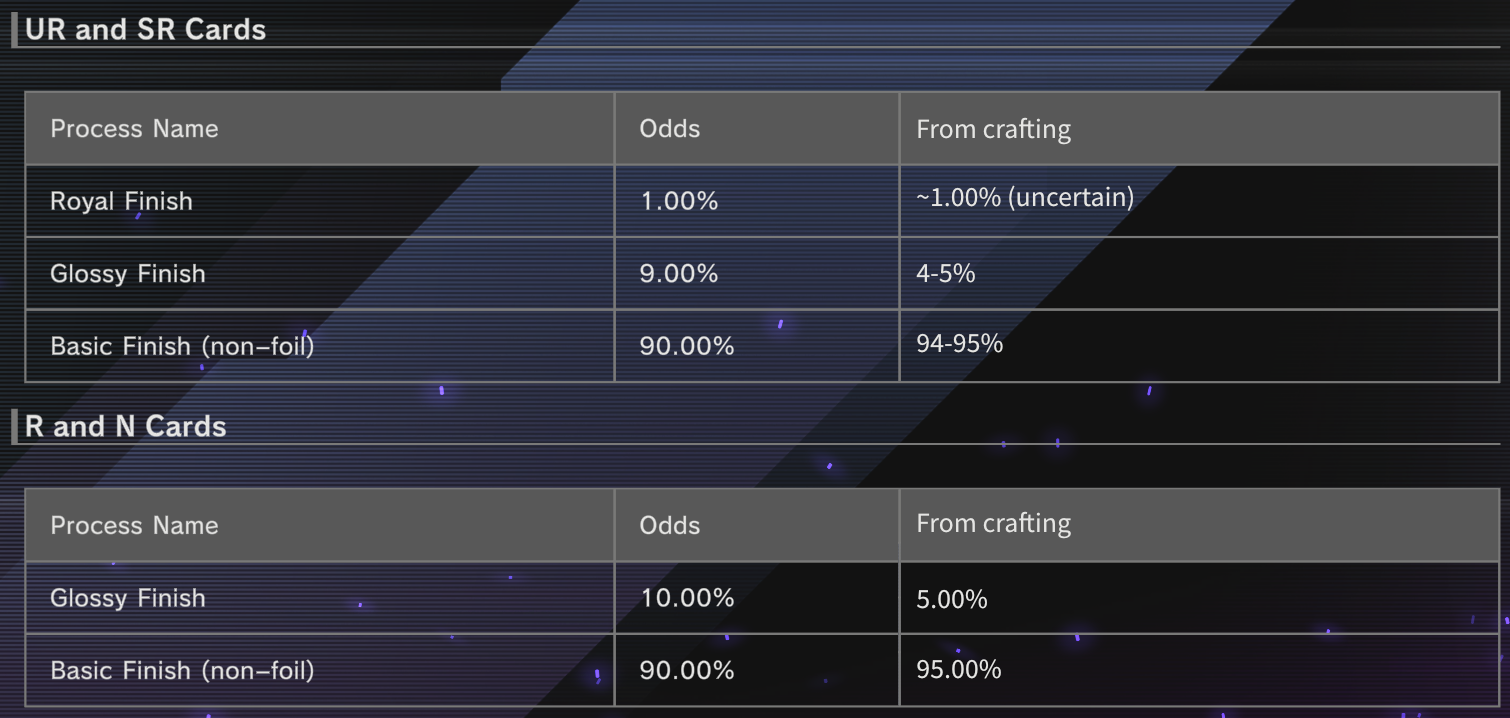
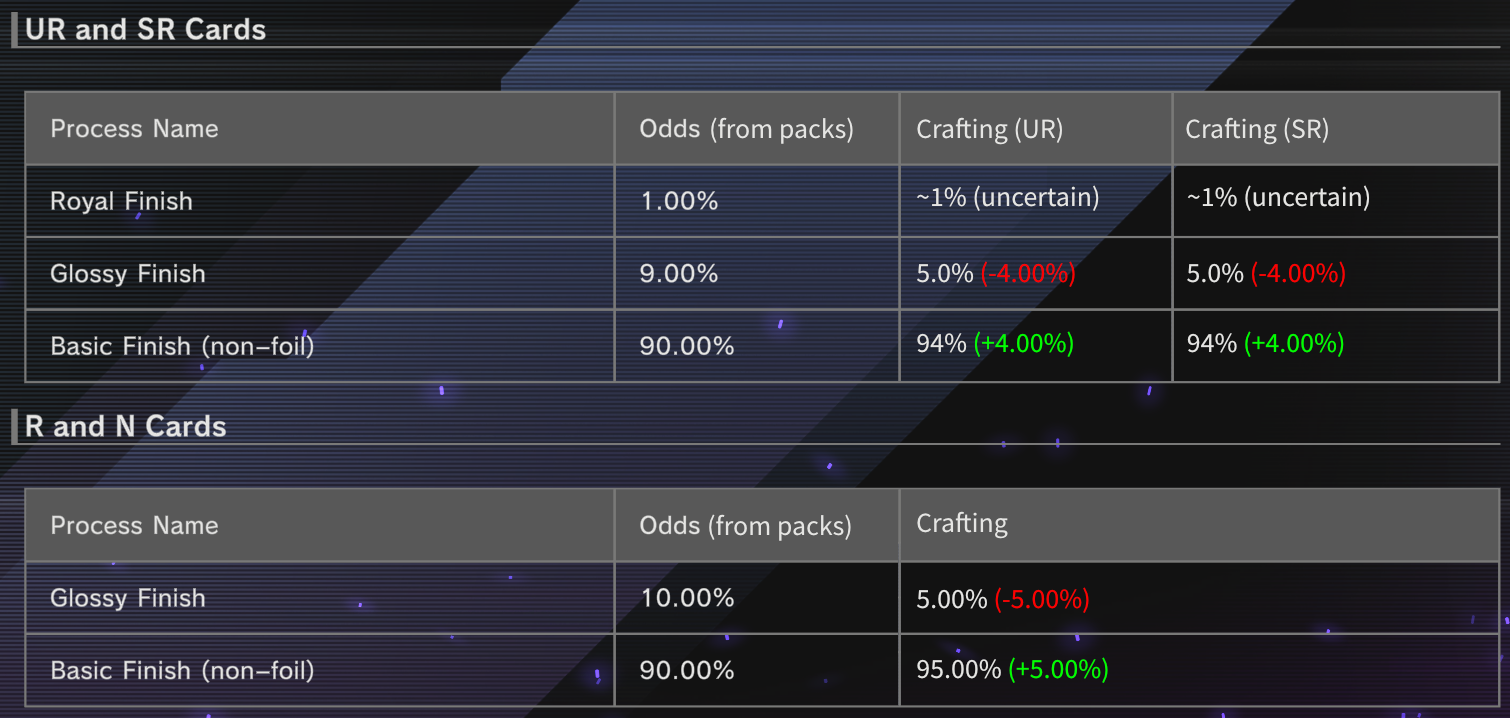
glossy: major data update

diff --git a/pages/glossy.html b/pages/glossy.html
@@ -40,7 +40,7 @@ gtag('config', 'G-805N997DPC');
 <header class="major">
 <h1>Master Duel crafting is rigged*</h1>
 </header>
-<center><em>By BigStupidJellyfish | 2024-January-17 | Last updated 2024-February-17</em></center>
+<center><em>By BigStupidJellyfish | 2024-January-17 | Last updated 2024-September-27</em></center>
 
 <span class="anchor" id="numbers"></span>
 <h2>The N/R Numbers<sup><small><a href="#numbers">&#35;</a></small></sup></h2>
@@ -55,6 +55,7 @@ gtag('config', 'G-805N997DPC');
 	There would likely be legal trouble otherwise, and I don't particularly care to crawl through masses of pack opening videos.
 	But what about crafting?
 	As far as I can tell, rates there are not disclosed anywhere in-game.
+	Here's what Konami has to say about crafting:
 </p>
 <div class="figure">
 	<img src="images/glossy/craftmenu.png" width="100%"/>
@@ -79,21 +80,21 @@ gtag('config', 'G-805N997DPC');
 			<td>R</td>
 			<td>0/0/-</td>
 			<td>33/3/-</td>
-			<td>3/33</td>
+			<td>3/36</td>
 		</tr>
 		<tr>
 			<td>Shif, Fairy of the Ghoti</td>
 			<td>R</td>
 			<td>3/0/-</td>
 			<td>97/2/-</td>
-			<td>2/94</td>
+			<td>2/96</td>
 		</tr>
 		<tr>
 			<td>Gold Pride - Roller Baller</td>
 			<td>N</td>
 			<td>2/0/-</td>
 			<td>146/3/-</td>
-			<td>3/144</td>
+			<td>3/147</td>
 		</tr>
 	</table>
 </center>
@@ -101,8 +102,9 @@ gtag('config', 'G-805N997DPC');
 	... and so on.
 </p>
 <p>
-	In total, 1196 craft attempts resulted in 53 glossy N/R cards - a 4.4% rate.
-	The true glossy rate is almost surely (with 99% confidence) at least 3.1% but no more than 6.3%.
+	In total, 3972 craft attempts resulted in 204 glossy N/R cards - a 5.1% rate.
+	The true glossy rate is almost surely (with 99% confidence) at least 4.3% but no more than 6.1%.
+	5.00% is a reasonable guess for the true rate.
 	Expect ~20 crafts per glossy, or ~60 for a playset - ~1200 N/R dust after refunds.
 	<!-- It's possible for SR/UR cards to have odds more in line with the stated rates from packs, but I would be very suspicious based on these results. -->
 </p>
@@ -114,11 +116,14 @@ gtag('config', 'G-805N997DPC');
 </p> -->
 <h2>The SR/UR Numbers<sup><small><a href="#numbers">&#35;</a></small></sup></h2>
 <p>
-	It takes an incredible amount of data to get a solid read on royal rates (as they're expected to be in the 1% range, I'd feel more comfortable with 2-5000 samples), but glossy SR/URs are a bit more doable.
-	From my data so far, 968 SR/UR crafts resulted in 49 glossy cards (5.1%), and 9 royals (0.9%).
-	We can't say much about the royal rate yet - it may be anywhere around 0.4-2.2%.
-	But this is enough to conclude the SR/UR glossy rate does <em>not</em> match the stated 9% odds from packs (p&lt;0.0001).
-	With 99% confidence, the true SR/UR glossy rate is between 3.5% and 7.3%.
+	It takes an incredible amount of data to get a solid read on royal rates (as they're expected to be in the 1% range, I'd feel more comfortable with 5000+ samples), but glossy SR/URs are a bit more doable.
+	From my data so far, 2767 SR/UR crafts resulted in 136 glossy cards (4.9%), and 25 royals (0.9%).
+	We can't say much about the royal rate yet - it may be anywhere around 0.5-1.5%.
+	1.00% is a somewhat reasonable guess, but I'm not sure I'd trust Konami to be that "fair."
+	But this is more than enough to conclude the SR/UR glossy rate does <em>not</em> match the stated 9% odds from packs (p&lt;0.00001).
+	With 99% confidence, the true SR/UR glossy rate is between 3.9% and 6.1%.
+	Comparing with the N/R data, it seems fairly likely crafting in general has a 5.00% rate of giving a glossy finish.
+	No significant difference has been detected between SR and UR rates (with 1846 and 921 crafts, respectively).
 </p>
 <p>
 	If I had to take a wild guess, I'd say the overall probabilities currently look like:
@@ -162,8 +167,14 @@ gtag('config', 'G-805N997DPC');
 		</tr>
 	</table>
 </center> -->
+<!-- <p>
+	The reduced UR glossy rates are incredibly suspicious.
+	As I'm not sure glossies hold much value for whales, I'm inclined to believe these rates were reduced so that players get less UR dust from dismantling their cards, on average.
+	This attitude is at least reflected in other areas (reluctance to hit problematic UR cards, inflated rarities newly-released archetypes).
+</p> -->
 <p>
 	Be careful when spending your dust, and be even more careful when deciding whether or not to spend your dollars.
+	While current evidence doesn't show tampering with the royal rates, the definite, misleading tampering with glossy rates across the board does not inspire trust.
 </p>
 <span class="anchor" id="notes"></span>
 <h2>Notes<sup><small><a href="#notes">&#35;</a></small></sup></h2>
@@ -174,12 +185,13 @@ gtag('config', 'G-805N997DPC');
 	Without evidence these are equally worthless, but I will head off one variation - the batch size does not appear to matter.
 	It's a somewhat smaller sample (and more annoying to collect), but my experimental glossy rate for N/R cards is about the same whether 3 are crafted at once or only 1
 	(10/212 glossy with batch size 1, reject a 10% glossy rate with p&lt;0.02).
+	Boost generation similarly shows no difference in odds.
 </p>
 <!-- <p>
 	This article is likely to be periodically updated as I craft more glossy cards, and can better narrow down the true rate.
 </p> -->
 <p>
-	I have also started collecting data on UR/SR crafts, but that will take much longer to get a respectable sample.
+	I am also collecting data on UR/SR crafts, but that will take much longer to get a respectable sample (especially for royal rares).
 	If you would like to contribute, feel free to message me.
 	I'll periodically update this page as my sample size improves.
 	Most critically, any submitted data must be decided as "data to submit" <em>before</em> the crafting takes place.

diff --git a/pages/changelog.html b/pages/changelog.html
@@ -45,6 +45,7 @@ As there's a bunch of minor text edits/clarifications/corrections mixed in, I'll
 This doesn't span the entire site history - changes before 2021 are not listed.</p>
 
 <ul>
+  <li>2024-09-27 - Updated <a href="glossy">MD crafting</a> with significant SR/UR data.</li>
   <li>2024-08-20 - <a href="campaign-rewards#pr">PR campaign</a>.</li>
   <li>2024-05-03 - Updated <a href="datasim">datasim</a> with 3.04 times. Updated <a href="hsc-hawthorne">Sir Hawthorne</a> with betrayal chart.</li>
   <li>2024-03-28 - Updated <a href="bss-stats">Level/Core/BP Correlations (BSS)</a> with BSS04 data. Reformatted charts.</li>
